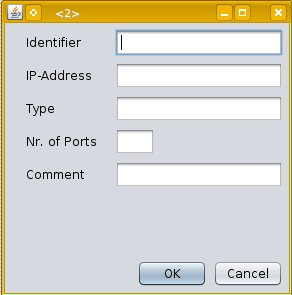
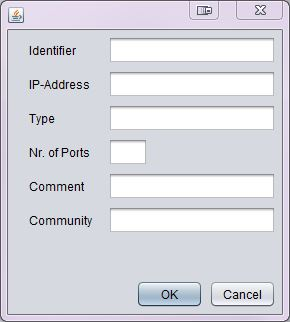
Fixed MeasurementBackendTest New Screenshot for SwitchDialog in Docs

diff --git a/PoE-SNMP-Tool/test/cn/poe/group1/db/MeasurementBackendTest.java b/PoE-SNMP-Tool/test/cn/poe/group1/db/MeasurementBackendTest.java
@@ -31,8 +31,8 @@ public class MeasurementBackendTest {
     @Test
     public void testPersistSwitch_shouldInsertSwitchs() throws Exception {
         int size_before = backend.retrieveAllSwitches().size();
-        backend.persistSwitch(new Switch("test1/id", "testIp", "testtype", 20, ""));
-        backend.persistSwitch(new Switch("test1/id2", "testIp2", "testtype2", 30, ""));
+        backend.persistSwitch(new Switch("test1/id", "testIp", "testtype", 20, "", "public"));
+        backend.persistSwitch(new Switch("test1/id2", "testIp2", "testtype2", 30, "", "public"));
         
         int size_after = backend.retrieveAllSwitches().size();
         assertThat(size_after, is(size_before + 2));
@@ -40,7 +40,7 @@ public class MeasurementBackendTest {
     
     @Test
     public void testUpdateSwitch_shouldUpdateSwitch() throws Exception {
-        Switch sw = new Switch("test2/id", "testIp", "testtype", 20, "");
+        Switch sw = new Switch("test2/id", "testIp", "testtype", 20, "", "public");
         backend.persistSwitch(sw);
         sw = backend.getSwitchById("test2/id");
         assertThat(sw, notNullValue());
@@ -57,7 +57,7 @@ public class MeasurementBackendTest {
     
     @Test
     public void testPersistPort_shouldInsertPorts() throws Exception {
-        Switch sw = new Switch("test3/id", "testIp", "testtype", 4, "");
+        Switch sw = new Switch("test3/id", "testIp", "testtype", 4, "", "public");
         backend.persistSwitch(sw);
         int size_before = backend.retrieveAllPorts(sw).size();
         backend.persistPort(new Port(sw, 1, ""));
@@ -68,7 +68,7 @@ public class MeasurementBackendTest {
     
     @Test
     public void testUpdatePort_shouldUpdatePort() throws Exception {
-        Switch sw = new Switch("test4/id", "testIp", "testtype", 4, "");
+        Switch sw = new Switch("test4/id", "testIp", "testtype", 4, "", "public");
         backend.persistSwitch(sw);
         Port port = new Port(sw, 1, "testComment");
         backend.persistPort(port);
@@ -83,7 +83,7 @@ public class MeasurementBackendTest {
     
     @Test
     public void testLoadMeasurementsWithIncorrectSwitchId_shouldReturnNoResult() throws Exception {
-        Switch sw = new Switch("test5/id", "testIp", "testtype", 20, "");
+        Switch sw = new Switch("test5/id", "testIp", "testtype", 20, "", "public");
         backend.persistSwitch(sw);
         Port port1 = new Port(sw, 1, "");
         Port port2 = new Port(sw, 2, "");
@@ -94,7 +94,7 @@ public class MeasurementBackendTest {
         Calendar end = getEndTime();
         
         insertTestMeasurements(port1, port2);
-        sw = new Switch("nonsenseid", "testIp", "testtype", 20, "");
+        sw = new Switch("nonsenseid", "testIp", "testtype", 20, "", "public");
         List<Measurement> results = backend.queryMeasurementsBySwitch(sw,  
                 begin.getTime(), end.getTime());
         
@@ -103,7 +103,7 @@ public class MeasurementBackendTest {
     
     @Test
     public void testLoadMeasurementsWithIncorrectTimes_shouldReturnNoResult() throws Exception {
-        Switch sw = new Switch("test6/id", "testIp", "testtype", 20, "");
+        Switch sw = new Switch("test6/id", "testIp", "testtype", 20, "", "public");
         backend.persistSwitch(sw);
         Port port1 = new Port(sw, 1, "");
         Port port2 = new Port(sw, 2, "");
@@ -123,7 +123,7 @@ public class MeasurementBackendTest {
     
     @Test
     public void testLoadMeasurementsByPort_shouldLoadResult() throws Exception {
-        Switch sw = new Switch("test7/id", "testIp", "testtype", 20, "");
+        Switch sw = new Switch("test7/id", "testIp", "testtype", 20, "", "public");
         backend.persistSwitch(sw);
         Port port1 = new Port(sw, 1, "");
         Port port2 = new Port(sw, 2, "");
@@ -152,7 +152,7 @@ public class MeasurementBackendTest {
     
     @Test
     public void testLoadMeasurementsBySwitch_shouldLoadResult() throws Exception {
-        Switch sw = new Switch("test8/id", "testIp", "testtype", 20, "");
+        Switch sw = new Switch("test8/id", "testIp", "testtype", 20, "", "public");
         backend.persistSwitch(sw);
         Port port1 = new Port(sw, 1, "");
         Port port2 = new Port(sw, 2, "");
@@ -177,7 +177,7 @@ public class MeasurementBackendTest {
     
     @Test
     public void testMeasurementSavingAndRetrievingWorks_shouldWork() throws Exception {
-        Switch sw = new Switch("test9/id", "testIp", "testtype", 20, "");
+        Switch sw = new Switch("test9/id", "testIp", "testtype", 20, "", "public");
         backend.persistSwitch(sw);
         Port port = new Port(sw, 1, "");
         backend.persistPort(port);
@@ -205,7 +205,7 @@ public class MeasurementBackendTest {
     
     @Test
     public void testPersistSwitchAndPorts_shouldWork() throws Exception {
-        Switch sw = new Switch("test10/id", "testIp", "testtype", 20, "");
+        Switch sw = new Switch("test10/id", "testIp", "testtype", 20, "", "public");
         Port port1 = new Port(sw, 1, "testComment");
         Port port2 = new Port(sw, 2, "testComment");
         sw.addPort(port1);
